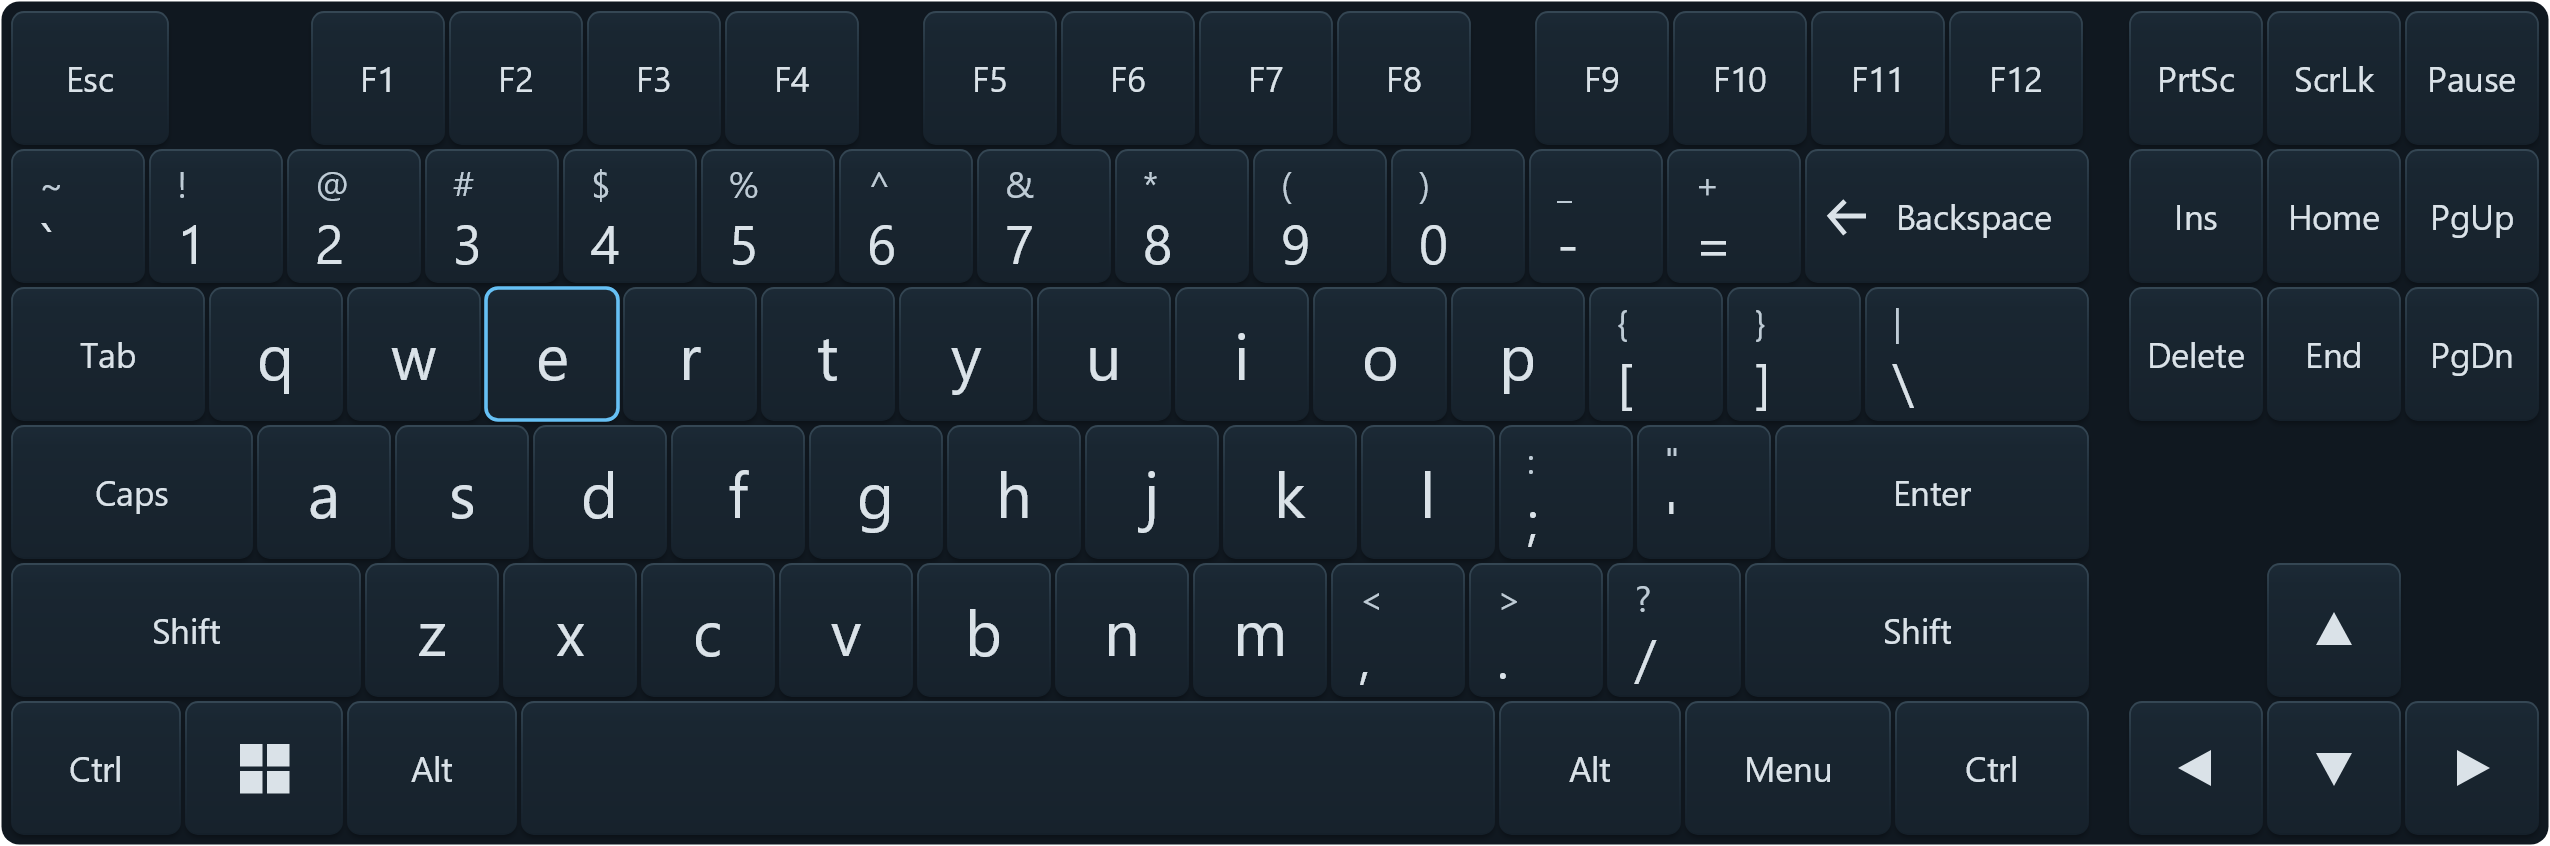
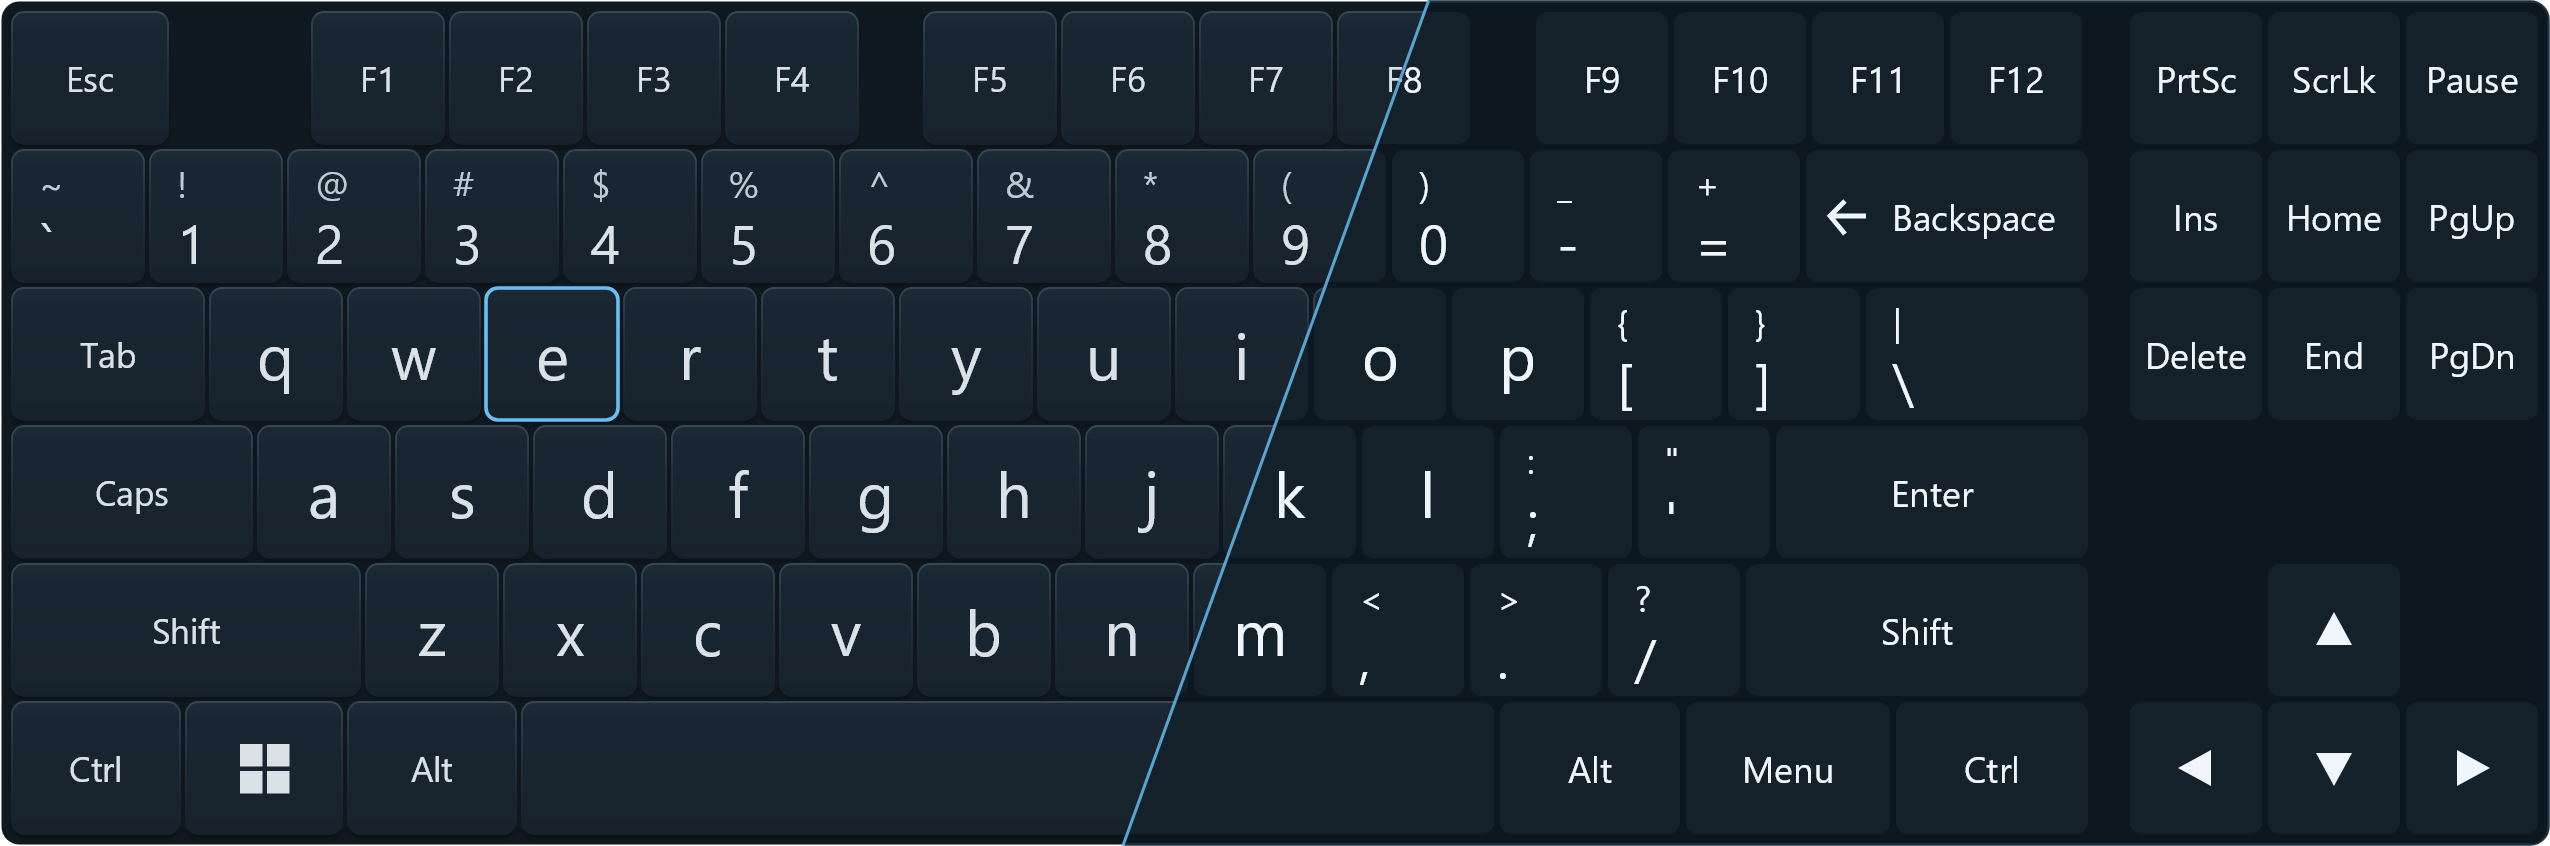
Show both themes in README

diff --git a/docs/development.md b/docs/development.md
@@ -91,6 +91,8 @@ dotnet run --project src/GoBoard.App -c Release -- --render .runtime\steam-flat.
 
 The `reference` preview combines locked Ctrl, one-shot Alt, and hovered E. Every preview state works with both themes, including generated Windows layouts and the Japanese fallback. `--theme` is a preview option requiring `--render`; select live themes in Settings alongside the Auto/ANSI/ISO arrangement control.
 
+After a Release build, run `.\render-keyboard-screenshot.ps1` from the repository root to regenerate `docs/images/goboard-keyboard.png`. It renders both themes with the same US layout and hovered E, then combines Steam Soft on the left and Steam Flat on the right with a diagonal divider through the midpoint.
+
 Soft key backgrounds are rasterized once per shape and visual state, then reused at the exact texture resolution. The cache includes the ISO Enter notch and theme, excludes legends and input state, and holds at most 256 immutable images. Eviction disposes the native images under the same lock used for drawing. Gradients, edges, and shadows are preserved; legends and modifier indicators remain live. Image regression tests compare every US/Swedish/Japanese preview state against uncached rendering with a two-level per-channel tolerance for premultiplied-alpha rounding.
 
 Run `dotnet run --project src/GoBoard.App -c Release -- --render-benchmark` for a headless renderer benchmark (10 warmup frames and 100 timed frames alternating reference/pressed states per theme). It excludes PNG encoding, window presentation, and VR texture upload. On the development PC, caching reduced the soft median from 39.32 ms to 4.71 ms; flat measured about 6.1 ms. The first use of a shape/state populates the cache; these figures describe steady rendering, not end-to-end input latency.

diff --git a/README.md b/README.md
@@ -6,7 +6,7 @@
 
 A keyboard for SteamVR and Windows desktop, inspired by [YuuBoard](https://yuuzami.itch.io/yuuboard). Labels follow your active Windows keyboard layout.
 
-![GoBoard keyboard](docs/images/goboard-keyboard.png)
+![GoBoard keyboard with Steam Soft on the left and Steam Flat on the right](docs/images/goboard-keyboard.png)
 
 ## Run
 
